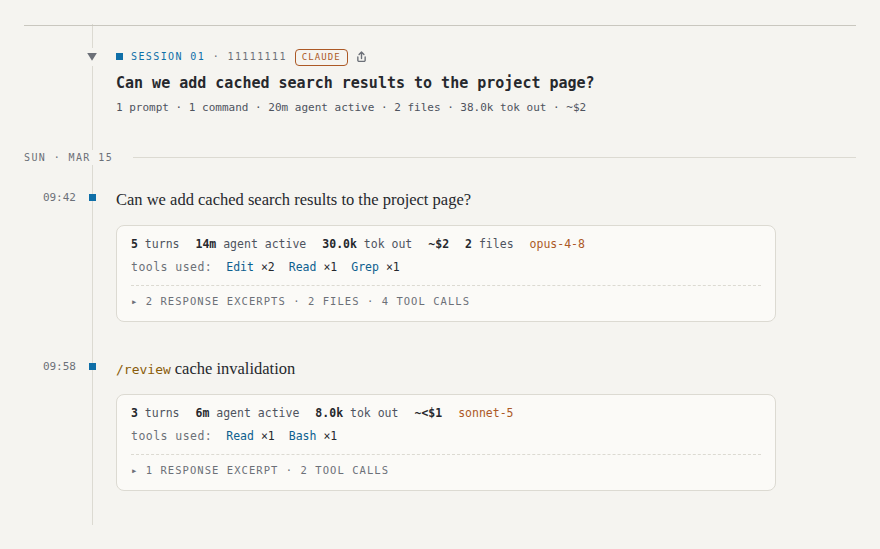
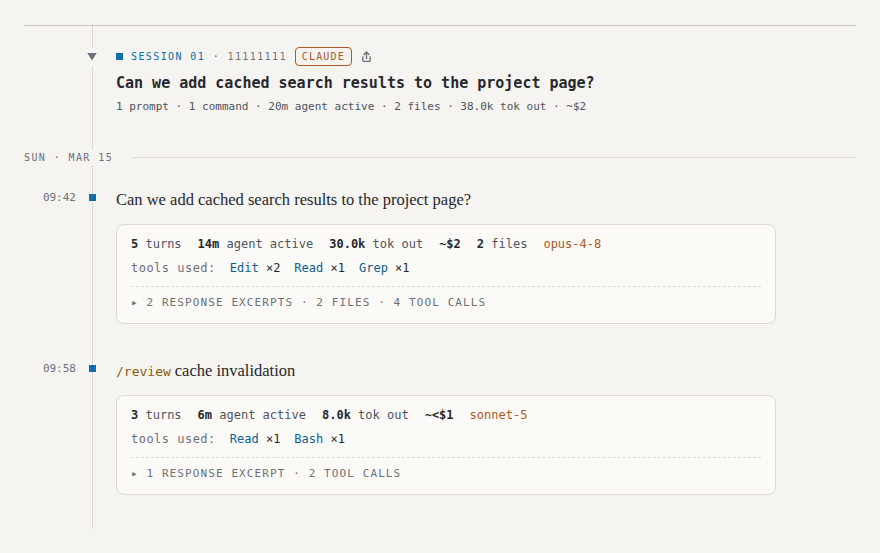
Draw days on phone-width plots, use eight font sizes, and narrow the dialog's key column
On a phone the explorer's auto interval drew 96 hourly bars into a
282px plot, under half a pixel each, and the readout's first line was
cut after 50 of its 87 characters. Auto now picks hourly only while the
window is a month or less and each hour gets at least 3px of plot, so a
420px screen draws days; the client redraws on load when its pick
differs from the server's, and again when a resize changes the pick.
Below 640px each readout line is two lines tall at a fixed 32px, so the
frame keeps its height. Wide screens change too: auto switches from
hours to days past about eleven days instead of 31, since a 742px plot
gives 31 days of hours a pixel each. The hour button still forces hourly
up to 31 days.

Thirteen font sizes become eight: 9 and 9.5px become 10, 10.5 becomes
11, 11.5 becomes 12, and 12.5 becomes 13. The half-pixel steps were
finer than anyone can see, and the smallest text on a page goes from
9px to 10px, the readout body from 11.5 to 12px.

The shortcuts dialog's key column narrows from 200px to 150px, so a
description sits closer to its key.

Every README image is regenerated for the type scale, and the usage spec
gains a phone-width test: days under auto, a 32px readout line, and
hours again after widening.

Assisted-by: Claude Code

diff --git a/tests/visual/usage.spec.js b/tests/visual/usage.spec.js
@@ -154,6 +154,22 @@ test('window presets, dates, and the hash recompute the cards', async ({ page })
   expect(await page.evaluate(() => document.documentElement.scrollHeight)).toBe(height);
 });
 
+test('a phone-width plot draws days under auto and a two-line readout', async ({ page }) => {
+  await page.setViewportSize({ width: 420, height: 900 });
+  await page.clock.setFixedTime(FIXTURE_REFRESH);
+  await page.goto(pathToFileURL(path.join(siteDir, 'index.html')).href);
+  // The server drew 96 hourly bars for a wide plot. In a 282px plot each hour
+  // would get under 3px, so the first client render draws the four days.
+  await expect(page.locator('.interval.eff')).toHaveText('day');
+  await expect(page.locator('#uPlot .ubars i')).toHaveCount(4);
+  // Each readout line is two lines tall at a fixed 32px, so the frame stays put.
+  expect(Math.round((await page.locator('#uRo1').boundingBox()).height)).toBe(32);
+  // Widening the window brings the hourly bars back.
+  await page.setViewportSize({ width: 1440, height: 900 });
+  await expect(page.locator('.interval.eff')).toHaveText('hour');
+  await expect(page.locator('#uPlot .ubars i')).toHaveCount(96);
+});
+
 test('the minimap brush and the chart drag select windows', async ({ page }) => {
   await page.clock.setFixedTime(FIXTURE_REFRESH);
   await page.goto(pathToFileURL(path.join(siteDir, 'index.html')).href + '?interval=day');

diff --git a/generate_site.py b/generate_site.py
@@ -1164,7 +1164,8 @@ def _usage_html(series):
     for k in USAGE_INTERVALS:
         cls = "interval" + (" on" if k == "auto" else "") + (" eff" if k == interval else "")
         disabled = " disabled" if k == "hour" and n > USAGE_MAX_HOURLY_DAYS else ""
-        title = ("hourly up to a month, daily up to 26 weeks, then weekly" if k == "auto"
+        title = ("hourly while each hour has room, up to a month; daily up to 26 weeks; "
+                 "then weekly" if k == "auto"
                  else f"windows of {USAGE_MAX_HOURLY_DAYS} days or fewer" if k == "hour"
                  else f"one bar per {k}")
         intervals.append(f'<button type="button" class="{cls}" data-i="{k}"{disabled} '
@@ -1335,7 +1336,7 @@ button{font:inherit;color:inherit}
    0, grow 1) and is the first thing to ellipsize as the bar narrows; the name only
    starts truncating once the description is gone */
 .crumb-desc{flex:1 1 0;min-width:0;white-space:nowrap;overflow:hidden;
-  text-overflow:ellipsis;color:var(--dim);font-size:12.5px}
+  text-overflow:ellipsis;color:var(--dim);font-size:13px}
 .crumb-desc::before{content:"\\2022";margin:0 8px 0 1px;color:var(--faint)}
 .crumb-desc:empty{display:none}
 .backlink{display:inline-flex;align-items:center;gap:6px;flex:0 0 auto;
@@ -1346,7 +1347,7 @@ button{font:inherit;color:inherit}
 .backlink:hover .ar,.backlink:focus-visible .ar{transform:translateX(-3px)}
 /* session time-ribbon: dots on a real-date axis, full-width under the crumb row */
 .ribbon{display:flex;align-items:center;gap:10px;width:100%}
-.rdate{flex:0 0 auto;font-size:9px;color:var(--faint);white-space:nowrap}
+.rdate{flex:0 0 auto;font-size:10px;color:var(--faint);white-space:nowrap}
 .rtrack{position:relative;flex:1 1 auto;height:16px;cursor:pointer}
 .rtrack::before{content:"";position:absolute;left:0;right:0;top:50%;height:1px;background:var(--line)}
 /* faint per-entry dots: where a session's activity actually fell (spread + density) */
@@ -1410,9 +1411,9 @@ header.hero{position:relative}
   border-radius:4px;color:var(--dim);font:inherit;font-size:18px;line-height:1;cursor:pointer}
 .help-close:hover{color:var(--ink)}
 .help-close:focus-visible{outline:2px solid var(--machine);outline-offset:2px}
-.help h3{margin:14px 0 6px;font-size:9.5px;letter-spacing:.12em;text-transform:uppercase;
+.help h3{margin:14px 0 6px;font-size:10px;letter-spacing:.12em;text-transform:uppercase;
   color:var(--faint)}
-.help dl{display:grid;grid-template-columns:minmax(0,200px) 1fr;gap:6px 16px;margin:0;
+.help dl{display:grid;grid-template-columns:minmax(0,150px) 1fr;gap:6px 16px;margin:0;
   font-size:12px;line-height:18px;color:var(--dim)}
 .help dt{color:var(--ink)}
 .help dd{margin:0}
@@ -1440,7 +1441,7 @@ header.hero{position:relative}
 header.hero{padding:16px 0 30px;border-bottom:1px solid var(--line)}
 h1{font-family:var(--serif);font-size:38px;font-weight:500;letter-spacing:-.01em;
   margin:12px 0 6px}
-.path{font-size:11.5px;color:var(--faint);word-break:break-all}
+.path{font-size:12px;color:var(--faint);word-break:break-all}
 .range{font-size:12px;color:var(--dim);margin-top:12px}
 .range b{color:var(--ink);font-weight:600}
 .age{color:var(--faint);white-space:nowrap}
@@ -1467,15 +1468,15 @@ h1{font-family:var(--serif);font-size:38px;font-weight:500;letter-spacing:-.01em
 .meta .mdl,.meta .tn{color:var(--machine)}
 .meta .mdl.fam-claude{color:var(--claude)}
 .meta .mdl.fam-gpt{color:var(--codex)}
-.tooltag{display:inline-block;font-size:9px;letter-spacing:.12em;text-transform:uppercase;
+.tooltag{display:inline-block;font-size:10px;letter-spacing:.12em;text-transform:uppercase;
   padding:1px 6px;border:1px solid var(--line);border-radius:4px;color:var(--dim)}
 .tooltag.t-claude{color:var(--claude);border-color:var(--claude)}
 .tooltag.t-codex{color:var(--codex);border-color:var(--codex)}
-.origintag{display:inline-block;margin-left:4px;font-size:9px;letter-spacing:.1em;
+.origintag{display:inline-block;margin-left:4px;font-size:10px;letter-spacing:.1em;
   text-transform:uppercase;color:var(--machine)}
 .origintag.t-recovered{color:var(--human);border:1px solid color-mix(in srgb,var(--human) 35%,transparent);
   border-radius:3px;padding:1px 4px;letter-spacing:.08em}
-.forktag{margin-left:7px;font-size:9px;color:var(--faint);text-decoration:none}
+.forktag{margin-left:7px;font-size:10px;color:var(--faint);text-decoration:none}
 a.forktag:hover,a.forktag:focus-visible{color:var(--machine);text-decoration:underline;
   outline:none}
 /* ---- log ---- */
@@ -1527,7 +1528,7 @@ summary.sess .share{vertical-align:middle;margin:-4px 0 -4px 2px}
 .entry .share{position:absolute;left:34px;top:19px;opacity:0}
 .entry:hover .share,.entry.current .share,.entry .share:focus-visible{opacity:1}
 @media (hover:none){.entry .share{opacity:1}}
-.gapnote{padding-left:92px;margin:-8px 0 16px;font-size:10.5px;color:var(--faint);
+.gapnote{padding-left:92px;margin:-8px 0 16px;font-size:11px;color:var(--faint);
   letter-spacing:.08em}
 .entry{position:relative;padding:0 0 34px 92px;scroll-margin-top:72px}
 .entry.quiet{padding-bottom:20px}
@@ -1547,7 +1548,7 @@ summary.sess .share{vertical-align:middle;margin:-4px 0 -4px 2px}
 a.clock:hover,a.clock:focus-visible{color:var(--human);outline:none}
 .ask{font-family:var(--serif);font-size:16.5px;line-height:1.55;max-width:62ch;
   white-space:pre-wrap;overflow-wrap:anywhere}
-.terminal{font-family:var(--mono);font-size:12.5px;line-height:1.45;max-width:100%;
+.terminal{font-family:var(--mono);font-size:13px;line-height:1.45;max-width:100%;
   white-space:nowrap;overflow-x:auto;color:var(--dim)}
 .terminal .cmdname{color:var(--human)}
 .terminal .term-sep{padding:0 8px;color:var(--faint)}
@@ -1560,13 +1561,13 @@ a.clock:hover,a.clock:focus-visible{color:var(--human);outline:none}
   padding-right:4px}
 .ask-open{font-size:12px;color:var(--faint)}
 .entry.subagent .ask{font-family:var(--mono);font-size:12px;color:var(--machine)}
-.recovered-note{margin-top:7px;font-size:10.5px;color:var(--faint)}
+.recovered-note{margin-top:7px;font-size:11px;color:var(--faint)}
 .entry.recovered .emark::after{background:var(--bg);border:2px solid var(--human);
   border-radius:50%}
 
 /* machine readout */
 .ro{margin-top:12px;max-width:660px;background:var(--panel);border:1px solid var(--line);
-  border-radius:8px;padding:10px 14px 11px;font-size:11.5px;color:var(--dim)}
+  border-radius:8px;padding:10px 14px 11px;font-size:12px;color:var(--dim)}
 .rostat{display:flex;flex-wrap:wrap;gap:4px 16px}
 .rostat b{color:var(--ink);font-weight:600}
 .rostat .mdl{color:var(--machine)}
@@ -1578,7 +1579,7 @@ a.clock:hover,a.clock:focus-visible{color:var(--human);outline:none}
 .rotools .tn{color:var(--machine)}
 .rotools .tool-count{color:var(--ink)}
 details.more{margin-top:9px;border-top:1px dashed var(--line);padding-top:8px}
-details.more>summary{cursor:pointer;font-size:10.5px;letter-spacing:.1em;
+details.more>summary{cursor:pointer;font-size:11px;letter-spacing:.1em;
   text-transform:uppercase;color:var(--faint);list-style:none;user-select:none}
 details.more>summary::-webkit-details-marker{display:none}
 details.more>summary::before{content:"\\25B8  "}
@@ -1586,17 +1587,17 @@ details.more[open]>summary::before{content:"\\25BE  "}
 details.more>summary:focus-visible{outline:2px solid var(--machine);outline-offset:2px}
 .responses{margin-top:15px}
 .detail-section+.detail-section{margin-top:14px;padding-top:12px;border-top:1px solid var(--line)}
-.response-heading,.detail-heading{margin-bottom:10px;font-size:9.5px;letter-spacing:.14em;
+.response-heading,.detail-heading{margin-bottom:10px;font-size:10px;letter-spacing:.14em;
   text-transform:uppercase;color:var(--faint)}
 .response-item+.response-item{margin-top:9px}
-.response-meta{margin-bottom:3px;font-size:10.5px;
+.response-meta{margin-bottom:3px;font-size:11px;
   letter-spacing:.02em;color:var(--faint)}
-.response-text{font-family:var(--serif);font-size:12.5px;line-height:1.45;color:var(--dim)}
+.response-text{font-family:var(--serif);font-size:13px;line-height:1.45;color:var(--dim)}
 .gist{margin:10px 0;padding-left:12px;border-left:2px solid var(--bar);
   font-size:12px;color:var(--dim);white-space:pre-wrap}
 .files{margin-top:10px}
 .files .detail-heading{margin-bottom:5px}
-.files code{display:block;font-size:11.5px;color:var(--ink);padding:1px 0}
+.files code{display:block;font-size:12px;color:var(--ink);padding:1px 0}
 .telog{margin-top:10px;display:grid;grid-template-columns:auto 1fr;gap:2px 14px;
   font-size:11px}
 .telog .tn{color:var(--machine);white-space:nowrap}
@@ -1617,7 +1618,7 @@ footer{border-top:1px solid var(--line);margin-top:20px;padding:22px 0 70px;
 .pricing>summary:hover{border-color:var(--machine);color:var(--ink);background:var(--panel2)}
 .pricing>summary:focus-visible{outline:2px solid var(--machine);outline-offset:2px}
 .pricing-body{max-width:660px;margin:14px 0 0;text-align:left;
-  color:var(--dim);font-size:11.5px;line-height:1.55}
+  color:var(--dim);font-size:12px;line-height:1.55}
 .pricing-body p{margin:0 0 9px}
 .pricing-body ul.category-help{margin:0 0 9px;padding-left:18px}
 .pricing-body li{padding-left:2px}
@@ -1682,14 +1683,14 @@ select.uwin:focus-visible{outline:2px solid var(--machine);outline-offset:-1px}
   border-bottom:1px solid var(--line);font-size:11px;line-height:16px;color:var(--dim)}
 .uro-head{display:flex;justify-content:space-between;align-items:center;gap:8px;height:22px}
 .uro-head time{font-size:12px;font-weight:600;color:var(--ink)}
-.ubtn{font:inherit;font-size:10.5px;height:20px;padding:0 8px;color:var(--dim);
+.ubtn{font:inherit;font-size:11px;height:20px;padding:0 8px;color:var(--dim);
   background:var(--panel2);border:1px solid var(--line);border-radius:4px;cursor:pointer;
   transition:color .12s,border-color .12s}
 .ubtn:disabled{opacity:.4;cursor:default}
 .ubtn:not(:disabled):hover{color:var(--ink);border-color:var(--machine)}
 .ubtn:focus-visible{outline:2px solid var(--machine);outline-offset:1px}
 .uro-line{height:16px;white-space:nowrap;overflow:hidden;text-overflow:ellipsis}
-.uro-k{display:inline-block;width:64px;font-size:9.5px;letter-spacing:.12em;
+.uro-k{display:inline-block;width:64px;font-size:10px;letter-spacing:.12em;
   text-transform:uppercase;color:var(--faint)}
 /* an item is its name followed by its value; items flow along the line */
 .ui{display:inline-flex;gap:6px;margin-right:18px;vertical-align:top;
@@ -1737,9 +1738,13 @@ select.uwin:focus-visible{outline:2px solid var(--machine);outline-offset:-1px}
 .brush .grip.r{right:-4px}
 .uminiaxis{display:flex;justify-content:space-between;margin:4px 0 0 var(--ugut);
   font-size:10px;line-height:16px;color:var(--faint)}
-.uhelp{margin:8px 0 0;font-size:10.5px;line-height:16px;color:var(--faint)}
+.uhelp{margin:8px 0 0;font-size:11px;line-height:16px;color:var(--faint)}
 
 @media (max-width:640px){
+  /* the readout's lines get two lines each, at a fixed height so the frame stays
+     put; one line held 50 characters of the 87 the first line needs */
+  .uro-line{height:32px;white-space:normal;display:-webkit-box;-webkit-line-clamp:2;
+    -webkit-box-orient:vertical}
   .stats{grid-template-columns:repeat(2,1fr)}
   .stat .d{white-space:normal;min-height:32px}   /* two reserved lines, so a wrap moves nothing */
   h1{font-size:30px}
@@ -2178,7 +2183,14 @@ const METRIC={
   tok:{get:d=>d.o||0,nice:nice,axis:fmtNum,col:1,fmt:fmtNum},
   act:{get:d=>d.a||0,nice:niceMs,axis:axisDur,col:2,fmt:fmtDur}};
 const MAX_HOURLY_DAYS=31, AUTO_HOUR_MAX_DAYS=MAX_HOURLY_DAYS, AUTO_DAY_MAX_DAYS=182;
-const autoInterval=n=>n<=AUTO_HOUR_MAX_DAYS?'hour':n<=AUTO_DAY_MAX_DAYS?'day':'week';
+// auto: hourly while the window is a month or less and each hour gets at least
+// MIN_HOUR_SLOT pixels of plot (96 hours in a phone's 284px plot were hairlines),
+// daily up to 26 weeks, weekly beyond. The server assumes a wide plot; the first
+// client render re-picks for the real width.
+const MIN_HOUR_SLOT=3;
+const plotWidth=()=>bars.getBoundingClientRect().width||800;
+const autoInterval=n=>(n<=AUTO_HOUR_MAX_DAYS&&plotWidth()/(n*24)>=MIN_HOUR_SLOT)?'hour'
+  :n<=AUTO_DAY_MAX_DAYS?'day':'week';
 const $=id=>document.getElementById(id);
 const plot=$('uPlot'), mini=$('uMini'), brush=$('uBrush'), hov=$('uHov'), sel=$('uSel'), vg=$('uVg'), axis=$('uAxis');
 const bars=plot.querySelector('.ubars'), mbars=mini.querySelector('.ubars');
@@ -2323,7 +2335,8 @@ function render(){
 function renderMini(){ const M=METRIC[metric];
   const values=binned(bucketsFor(eff,0,N-1).map(x=>x.d?M.get(x.d):0),Math.max(1,Math.floor(mbars.getBoundingClientRect().width/2)));
   paintBars(mbars,values,Math.max(...values)); }
-let miniTimer=0; addEventListener('resize',()=>{clearTimeout(miniTimer); miniTimer=setTimeout(renderMini,120);});
+let miniTimer=0; addEventListener('resize',()=>{clearTimeout(miniTimer); miniTimer=setTimeout(()=>{
+  renderMini(); if(interval==='auto'&&effective()!==eff) render(); },120);});   // width can change auto's pick
 function setWin(a,b){ a=clamp(a); b=clamp(b); if(a>b)[a,b]=[b,a]; if(a===A&&b===B) return; A=a; B=b; render(); }
 // ---- the view lives in the query string as separate fields, defaults omitted:
 // ?range=30d or ?from=2026-03-01&to=2026-03-15, &metric=tok|act, &interval=hour|day|week.
@@ -2412,8 +2425,12 @@ plot.addEventListener('keydown',e=>{
   else if(e.key==='Escape') j=-1; else return;
   e.preventDefault(); setPin(j>=0?cur[j].k:-1);
 });
+// the server drew the all-time view for a wide plot; if this plot's width makes
+// auto pick another interval, draw it now
+const drawn=intervals.find(b=>b.classList.contains('eff'))?.dataset.i;
 eff=effective(); cur=bucketsFor(eff,A,B); paintIntervals(); renderMini();
 readUrl();
+if(interval==='auto'&&eff!==drawn) render();
 })();
 """
 

diff --git a/README.md b/README.md
@@ -110,18 +110,19 @@ The top of the project index summarizes activity across every project and links
 to the method and token counts behind its API cost estimate.
 
 The usage explorer above the tiles charts one metric per hour, day, or week:
-est. API cost, tokens out, or agent active time, chosen from the select on
-the left of the toolbar. The interval control on the right starts on `auto`, which plots
-hours for a window of 31 days or less, days up to 26 weeks, and weeks beyond,
-and underlines the interval in effect; `hour`, `day`, and `week` fix it, and
-hourly bars need a window of 31 days or fewer. The window select offers `7d`,
-`30d`, and `90d`, which end on the refresh day, and `all`; it reads `custom`
-after any other window. The two dates beside it are inputs, so a click on
-either opens a date picker. The y-axis is fixed to the whole history's peak
-for the chosen metric and interval, so moving the window never rescales the
-bars. The minimap under the chart is a brush: drag inside it to move the
-window, drag a grip to resize it, or drag on an empty part to draw a new one.
-Dragging across the chart itself zooms into the covered days.
+est. API cost, tokens out, or agent active time, chosen from the select on the
+left of the toolbar. The interval control on the right starts on `auto`, which
+plots hours while the window is 31 days or less and each hour gets at least
+three pixels of plot, days up to 26 weeks, and weeks beyond, and underlines the
+interval in effect; `hour`, `day`, and `week` fix it, and hourly bars need a
+window of 31 days or fewer. The window select offers `7d`, `30d`, and `90d`,
+which end on the refresh day, and `all`; it reads `custom` after any other
+window. The two dates beside it are inputs, so a click on either opens a date
+picker. The y-axis is fixed to the whole history's peak for the chosen metric
+and interval, so moving the window never rescales the bars. The minimap under
+the chart is a brush: drag inside it to move the window, drag a grip to resize
+it, or drag on an empty part to draw a new one. Dragging across the chart
+itself zooms into the covered days.
 
 The readout between the toolbar and the chart inspects one bar: its cost,
 tokens, active time, inputs, and sessions started, then the top models and, on
